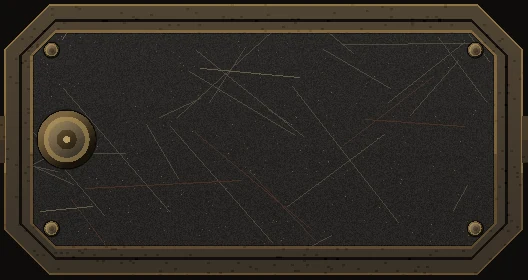
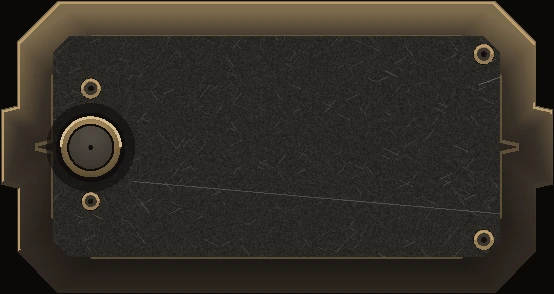
fix(menu): redraw steel plates in the phone frame

diff --git a/src/client/app/openingGates.css b/src/client/app/openingGates.css
@@ -57,7 +57,8 @@
    Frame — the same nine-slice siege raster as «Летопись»/«Битвы» (slice 180, --frame-corner width),
    backplate — the existing gate cut, heading — the cassette plate of the main title,
    action plaques — the menu steel raster at the shared --btn-h token. */
-#opening-search { position:absolute; z-index:5; left:50%; top:var(--play-y); width:min(430px,calc(100% - 24px)); transform:translateX(-50%); margin:0; padding:calc(var(--frame-corner) + 4px) calc(var(--frame-corner) + 2px); border:0; border-radius:0; box-shadow:none; background:none; color:#e2d9c0; text-align:center; max-height:calc(100% - var(--play-y) - var(--piece) - 182px); overflow:auto; isolation:isolate; container-type:inline-size; }
+#opening-search { position:absolute; z-index:5; left:50%; top:var(--play-y); width:min(430px,calc(100% - 24px)); transform:translateX(-50%); margin:0; padding:calc(var(--frame-corner) + 4px) calc(var(--frame-corner) + 2px); border:0; border-radius:0; box-shadow:none; background:none; color:#e2d9c0; text-align:center; max-height:calc(100% - var(--play-y) - var(--piece) - 182px); overflow:auto; scrollbar-width:none; isolation:isolate; container-type:inline-size; }
+#opening-search::-webkit-scrollbar { width:0; height:0; }
 /* The card is capped to the free space above the chronicle halves and scrolls inside instead of
    reaching under them: the halves are bottom-anchored 24px up with a calc(var(--piece) + 150px)
    body, so reserving that plus an 8px gap keeps their top edge clear. Nothing is hidden. */
@@ -75,10 +76,7 @@
 #opening-online-count[hidden] { display:none; }
 /* Search plaques keep the measured flex boxes. Each ratio has its own plate, contained, not stretched. */
 #opening-search-actions { display:flex; flex-wrap:wrap; gap:10px; justify-content:center; align-items:stretch; }
-#opening-search-actions button { position:relative; flex:1 1 calc(33.333% - 7px); min-width:0; min-height:44px; height:var(--btn-h); display:flex; align-items:center; justify-content:center; margin:0; padding:0 14px 0 22px; border:0; border-radius:0; box-shadow:none; background:transparent url('./ui/siege/button-steel-search-98-rest.webp') center/contain no-repeat; background-origin:border-box; background-clip:border-box; color:#e9e0ce; font:600 clamp(13px,3.9cqw,16px)/1.15 'Golos Text',sans-serif; text-shadow:0 1px 2px #000; transform:none; transition:none; -webkit-tap-highlight-color:transparent; }
-#opening-search-actions button::before, #opening-search-actions button::after { content:''; position:absolute; top:50%; width:5px; height:5px; border-radius:50%; background:#a29b81; box-shadow:0 1px 2px #000; }
-#opening-search-actions button::before { left:7px; }
-#opening-search-actions button::after { right:7px; }
+#opening-search-actions button { position:relative; flex:1 1 calc(33.333% - 7px); min-width:0; min-height:44px; height:var(--btn-h); display:flex; align-items:center; justify-content:center; margin:0; padding:0 12px 0 30px; border:0; border-radius:0; box-shadow:inset 0 0 0 1px #120f0c; background:transparent url('./ui/siege/button-steel-search-98-rest.webp') center/contain no-repeat; background-origin:border-box; background-clip:border-box; color:#e9e0ce; font:600 clamp(13px,3.9cqw,16px)/1.15 'Golos Text',sans-serif; text-shadow:0 1px 2px #000; transform:none; transition:none; -webkit-tap-highlight-color:transparent; }
 #opening-search-actions button:hover { filter:brightness(1.06); }
 #opening-search-actions button:active { filter:none; background-image:url('./ui/siege/button-steel-search-98-pressed.webp'); transform:translateY(2px); }
 /* Below 454px the card is still 100%-24px: 314 / 152 / 98 at 390. */
@@ -167,7 +165,9 @@
 }
 
 #match-rail{position:fixed;z-index:10000;left:50%;bottom:calc(12px + env(safe-area-inset-bottom));transform:translateX(-50%);display:flex;gap:8px;pointer-events:none}
-#match-rail .opening-utility{display:flex;align-items:center;justify-content:center;height:var(--btn-h);min-height:44px;min-width:132px;padding:0 14px;gap:6px;border:0;border-radius:0;box-shadow:none;background:transparent url('./ui/siege/button-steel-rail-resign-rest.webp') center/contain no-repeat;background-origin:border-box;background-clip:border-box;color:#e9e0ce;font:600 16px/1.15 "Golos Text",sans-serif;text-shadow:0 1px 2px #000;transition:none;transform:none;pointer-events:auto;touch-action:manipulation;-webkit-tap-highlight-color:transparent}
+#match-rail .opening-utility{display:flex;align-items:center;justify-content:center;height:var(--btn-h);min-height:44px;min-width:132px;padding:0 8px 0 26px;gap:6px;border:0;border-radius:0;box-shadow:none;background:transparent url('./ui/siege/button-steel-rail-resign-rest.webp') center/contain no-repeat;background-origin:border-box;background-clip:border-box;color:#e9e0ce;font:600 16px/1.15 "Golos Text",sans-serif;text-shadow:0 1px 2px #000;transition:none;transform:none;pointer-events:auto;touch-action:manipulation;-webkit-tap-highlight-color:transparent;box-sizing:border-box}
+#match-rail #match-undo{width:135.88px}
+#match-rail #match-resign{width:132px}
 #match-rail .opening-utility:active{filter:none;background-image:url('./ui/siege/button-steel-rail-resign-pressed.webp');transform:translateY(2px)}
 #match-rail #match-undo{background-image:url('./ui/siege/button-steel-rail-undo-rest.webp')}
 #match-rail #match-undo:active{background-image:url('./ui/siege/button-steel-rail-undo-pressed.webp')}

diff --git a/src/client/app/botUndo.spec.ts b/src/client/app/botUndo.spec.ts
@@ -44,8 +44,7 @@ it('rail plates carry the menu steel material at the shared button height', () =
  expect(css).toMatch(/#match-rail \.opening-utility\{[^}]*background-origin:border-box/);
  expect(css).toMatch(/#match-rail \.opening-utility\{[^}]*background-clip:border-box/);
  expect(css).not.toMatch(/#match-rail \.opening-utility\{[^}]*background-origin:padding-box/);
- // Each label has its own drawing with no large left bolt, so the label sits on the recessed
- // panel and not on a bolt.
+ // Each label has its own plate. Padding keeps the word off the left bolt; the box width is unchanged.
  expect(css).toContain("url('./ui/siege/button-steel-rail-undo-rest.webp')");
  // The grey plaque the player reported is gone, not recoloured.
  expect(css).not.toContain('border:1px solid #62635b');
